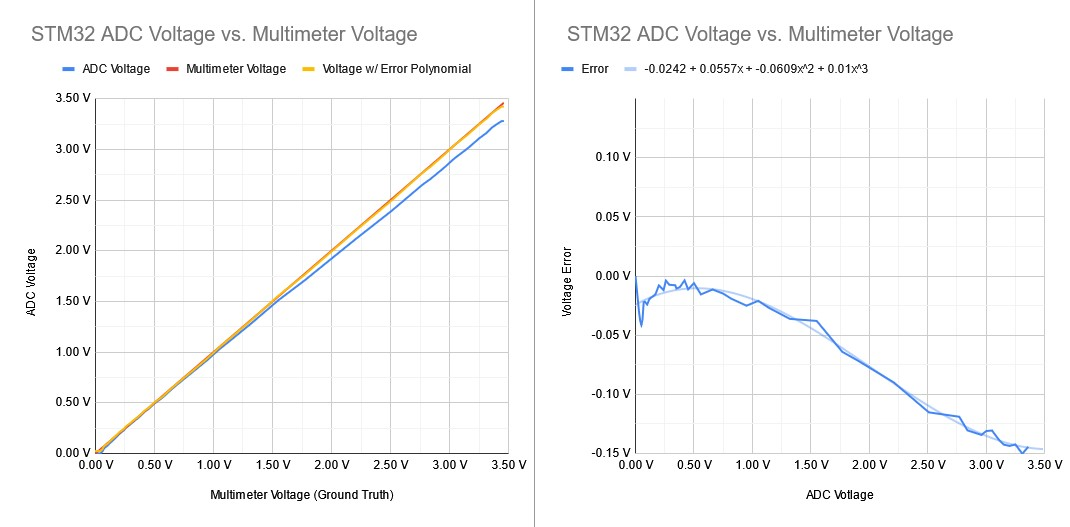
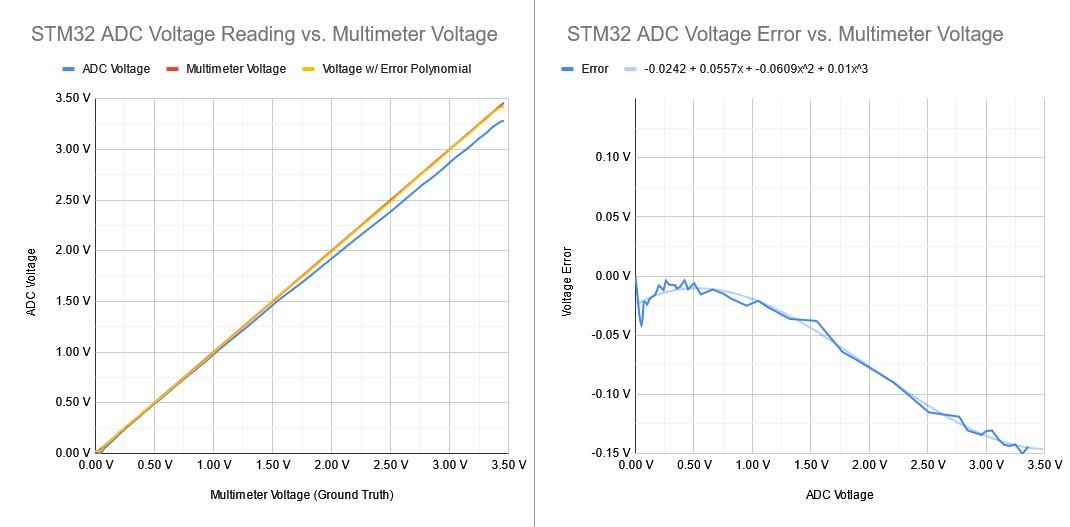
Monday Update on blog

Changed region(s): [[0.7093, 0.0304, 0.9561, 0.0911], [0.185, 0.0304, 0.4626, 0.0911]]

diff --git a/_posts/2024-12-29-scpi-auto-characterization.md b/_posts/2024-12-29-scpi-auto-characterization.md
@@ -1,0 +1,71 @@
+---
+layout: post
+title: "Using SCPI and PyVISA to Automatically Collect Data for ADC Characterization"
+categories: Projects
+author:
+ - Christopher Kalitin
+---
+<head>
+    <meta property="og:image" content="{{site.url}}/assets/images/esp32-adc-characterization/STM32-Zoomed.jpg">
+</head>
+
+This blog post is a copy pasted Monday Update I wrote for UBC Solar. So here's some defitions/explanations of terms & names:
+1. Saman - UBC Solar Electrical Lead
+2. Mischa - Previous UBC Solar Electrical Lead and Previous BMS Lead
+2. Monday - Our project management software
+3. SCPI - Standard Commands for Programmable Instruments
+4. AFG - Arbitrary Function Generator
+5. DMM - Digital Multimeter
+6. Nucleo - STM32 Nucleo Micro Controller
+
+Github Project Link containing SCPI Python scripts & STM32 Project: <a href="https://github.com/CKalitin/STM32-F031K6T6/tree/master/ADC-Auto-Characterization">here</a>
+
+Raw Data and Chart: <a href="https://docs.google.com/spreadsheets/d/11ldLaja0gl42fVCuYOzdmnMgkbBmONTC740BgDr8rv0/edit?usp=sharing">here</a>
+
+![My final testing setup]({{site.url}}/assets/images/Testing-Setup.png){: height="300" .align-center}  
+<i>My final testing setup</i>
+
+This morning Saman suggested I find a way to use our Digital Multimeter (DMM) and other tools to automatically collect data for ADC characterization. In my previous Monday update I described how we can feed the output of the DAC into the ADC pin to automatically characterize an ADC over a range of voltage values. This plan falls through because I found that the DAC can’t be trusted to output a specific voltage value and needs to be characterized itself. The solution is to use external trustworthy equipment to complete the automatic characterization.
+
+I started by figuring out how to program the DMM to automatically record and print values. SCPI (Standard Commands for Programmable Instruments) is the standard communication protocol to do this and there is a python library called PyVisa that allows for simple scripting. This took hours to set up and was most of my day, but it’s simple if you know what you’re doing, which now I do. If we plan to do similar tests in the future it would be useful for me to write a wiki page on how to set it up (automatic data collection like this was suggested for HPPC testing).
+
+My goal was to automatically generate a voltage and read it with both our DMM and a Nucleo. This way we would assume the DMM is trustworthy and could characterize the error in the Nucleo’s ADC.
+
+Our Power Supply doesn’t support SCPI and can’t be programmed, but our Arbitrary Function Generator (AFG) does support SCPI.
+
+I wrote a script that made the AFG output a constant voltage that was read by the DMM. I ran this in a loop from 0 to 3.3V with a 0.02V step size. This 0.02V step size was use for the final of 5 tests I did with this script and is what generated all the charts in this update.
+
+Note: the AFG doesn’t have a settings for a constant voltage, so I made it a pulse with a 99.9% duty cycle which appears to be close enough to a constant voltage for our purposes.
+
+A step is done once per second, so a full test took ~4-5 minutes. This long step length is used so that the Nucleo, AFG, and DMM will be roughly synchronized without any communication between them. To illustrate, It’s easier to click start on both in a 1 second window than a 0.01 second window.
+
+![STM32 CubeIDE]({{site.url}}/assets/images/STM32-CubeIDE.png){: height="150" .align-center}  
+Side note: When Krish and I were testing the ECU a few weeks ago we lost the ability to upload code to the STM32 chip, we struggled for 1.5 weeks and Mischa solved our problem in 5 minutes by showing us the Debug Serial Wire toggle in STM32 Cube IDE. This came in handy when I was testing with the Nucleo today, without it my test would’ve been stopped in its tracks. Thx Mischa.
+
+![ADC-Voltage-Reading-Vs-DMM-Voltage.png]({{site.url}}/assets/images/ADC-Voltage-Reading-Vs-DMM-Voltage.png){: height="350" .align-center}  
+<i>This is the graph that can be used to characterize the Nucleo’s ADC</i>
+
+As you can see in the graph above, there is a strange zig zag pattern in the graph of the ADC Voltage Reading. This isn’t exactly noise because it is very regular. There’s probably a fundamental reason for this that I am not aware of, but in future testing averaging can be used to get a smoother result. Also, I didn’t remember to measure the voltage reference for the Nucleo’s ADC so I assumed it was 3.3V.
+
+![ADC-Voltage-Reading-Vs-DMM-Voltage.png]({{site.url}}/assets/images/ADC-Voltage-Reading-DMM-Voltage-Vs-Time.png){: height="350" .align-center}  
+<i>This graph shows observations versus time, not observation vs. observation like the previous graph. You can see recording over the 4 minute test.</i>
+
+The graph above shows that the rate of voltage increase after 3V is lower than that below 3 volts. My script increases voltage by 0.02V every second, so the voltage I am commanding the AFG to output does not match the voltage it is outputting.
+
+
+![ADC-Voltage-Reading-Vs-DMM-Voltage.png]({{site.url}}/assets/images/DMM-Voltage-Vs-AFG-Input-Voltage.png){: height="350" .align-center}  
+</i>Above ~3V, the AFG stops outputting the voltage it is commanded to.</i> 
+
+When plotting the AFG output voltage versus the expected AFG output voltage, we see what we expected to, after ~3V the AFG stops outputting the voltage is is commanded to. With some manual testing I found that when I set the AFG to 5V manually it does in fact output ~5V (~5.12V really, the AFG isn’t perfectly precise). So, there must be an issue with programming the AFG or with my code that causes the discrepancy between expected and real results.
+
+![ADC-Voltage-Reading-Vs-DMM-Voltage.png]({{site.url}}/assets/images/Voltage-Observation-Time-vs-Time-Since-Start.png){: height="350" .align-center}  
+<i>Notice that at above 1.23V the observations take ~10x longer than below 0.81V.</i>
+
+![ADC-Voltage-Reading-Vs-DMM-Voltage.png]({{site.url}}/assets/images/Voltages-Delta-Time-Vs-Observation-Index.png){: height="350" .align-center}  
+<i>When we plot against observation index instead of the time stamp of the observation, we see the increase rate of observations after ~1.2V.</i>
+
+During initial testing I noticed that the DMM outputted values far faster lower voltages than at higher voltages. Because I assumed a constant time delta between observations, this discrepancy showed up as a bend in the graph of voltage vs. observation index which you can see in the second chart above (Voltages & Delta Time vs. Time Stamps).
+
+I solve this problem by requiring each observation to be done at a constant cadence. I require 1 second per observation. To meet this requirement I take an observation and record how long it look, by using the expression <i>delayTime = 1 - obvTime</i> I find the remaining delay required to space each observation out by 1 second. The longest observation sets the minimum time required for all other observation if we want a constant cadence, so our theoretical minimum is ~0.3s. Read the Python script [here](https://github.com/CKalitin/STM32-F031K6T6/blob/master/ADC-Auto-Characterization/SCPI%20Scripts/PyVisa-CharacterizationScript.py).
+
+Overall, this test made me learn a lot about SCPI and interfacing with electronic instruments. For our goal of more accurate current data, an automatic test setup like this isn’t strictly required. Recording values manually may take ~30 minutes while it took me ~5 hours today to set up automatic data recording - this could be reduced to ~1 hour of programming/setup for future tests. Although this might not be on the critical path for a more accurate current sensor, learning SCPI has value in and of itself and this knowledge may prove valuable in the future.
